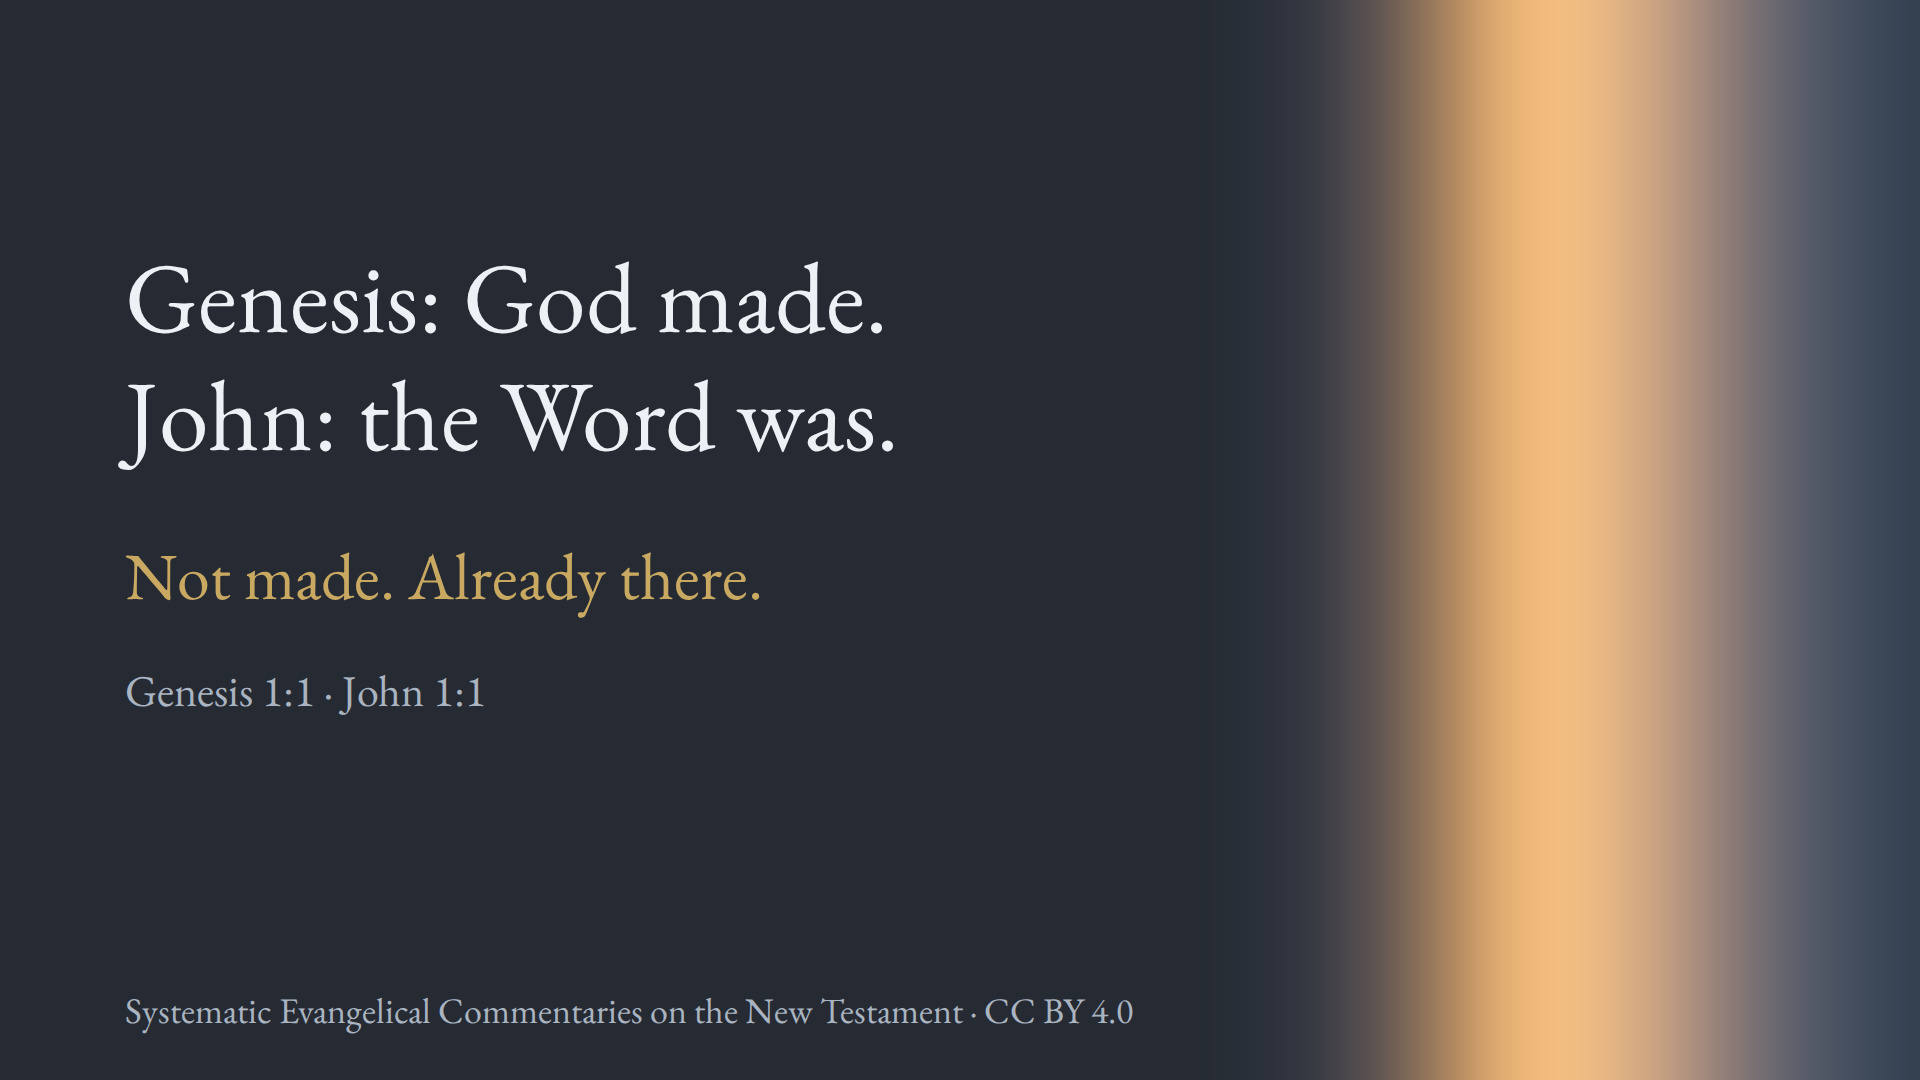
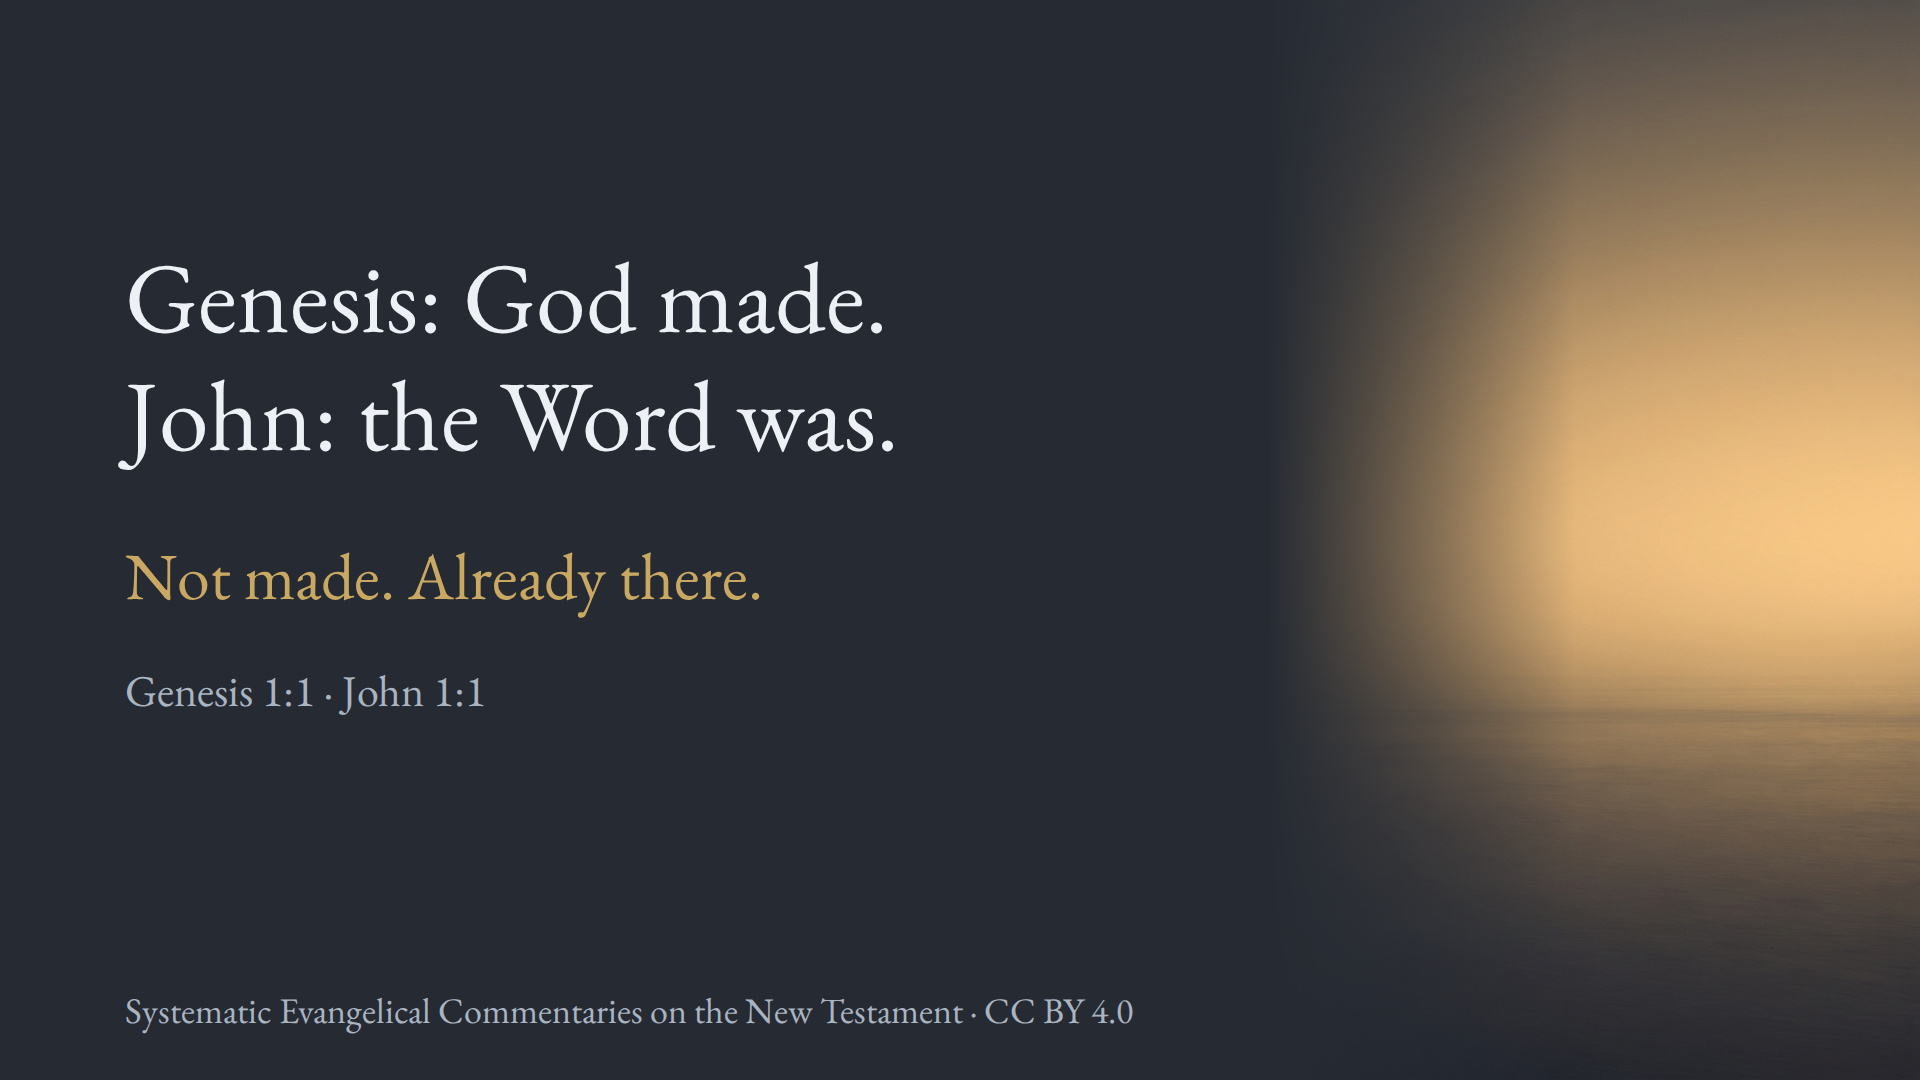
Short 03: 16:9 switched to the generated plate, prepared and re-rendered
Editor chose the generated Seedream 16:9 over the rotated derivation -- it
keeps the water, horizon and glow. Its flat region reached only ~35% of width
where 4B's headline runs to 62%, so it was prepared under ruling 1: imagery
ramped into exact #262B33 from 66% leftward, right-hand picture untouched.

Contrast now matches the derivation exactly -- headline 12.80/12.66:1, gold
6.35:1, gloss 6.82:1, footer 6.90:1 -- and the letter proof passes on all five
strings. The committed plate is the prepared version, not the raw generation.

Changed region(s): [[0.6875, 0.0, 1.0, 1.0]]

diff --git a/src/content/slides/genesis-echo-departs.md b/src/content/slides/genesis-echo-departs.md
@@ -4,7 +4,7 @@ description: "Projectable slide and teaching notes from the SECNT commentary on 
 cycle: john-1-1-to-3
 audience: new-to-the-bible
 scheduled: 2026-08-22
-imageAlt: "Slide on a dark slate field. Headline, two lines, set at the left: Genesis: God made. / John: the Word was. Gold line: Not made. Already there. Beneath it, the references Genesis 1:1 · John 1:1. Imagery: an open sky long before dawn, a soft warm golden glow with no visible source — no sun, no disc, no point of light — standing evenly down the right of the frame and dissolving leftward into the flat slate field the type sits on."
+imageAlt: "Slide on a dark slate field. Headline, two lines, set at the left: Genesis: God made. / John: the Word was. Gold line: Not made. Already there. Beneath it, the references Genesis 1:1 · John 1:1. Imagery filling the right of the frame: an immense still expanse of dark water under an unbroken sky long before dawn, a broad warm golden glow above the horizon spreading across the water, fading leftward into the flat slate field the type sits on."
 license: CC-BY-4.0
 draft: false
 ---
